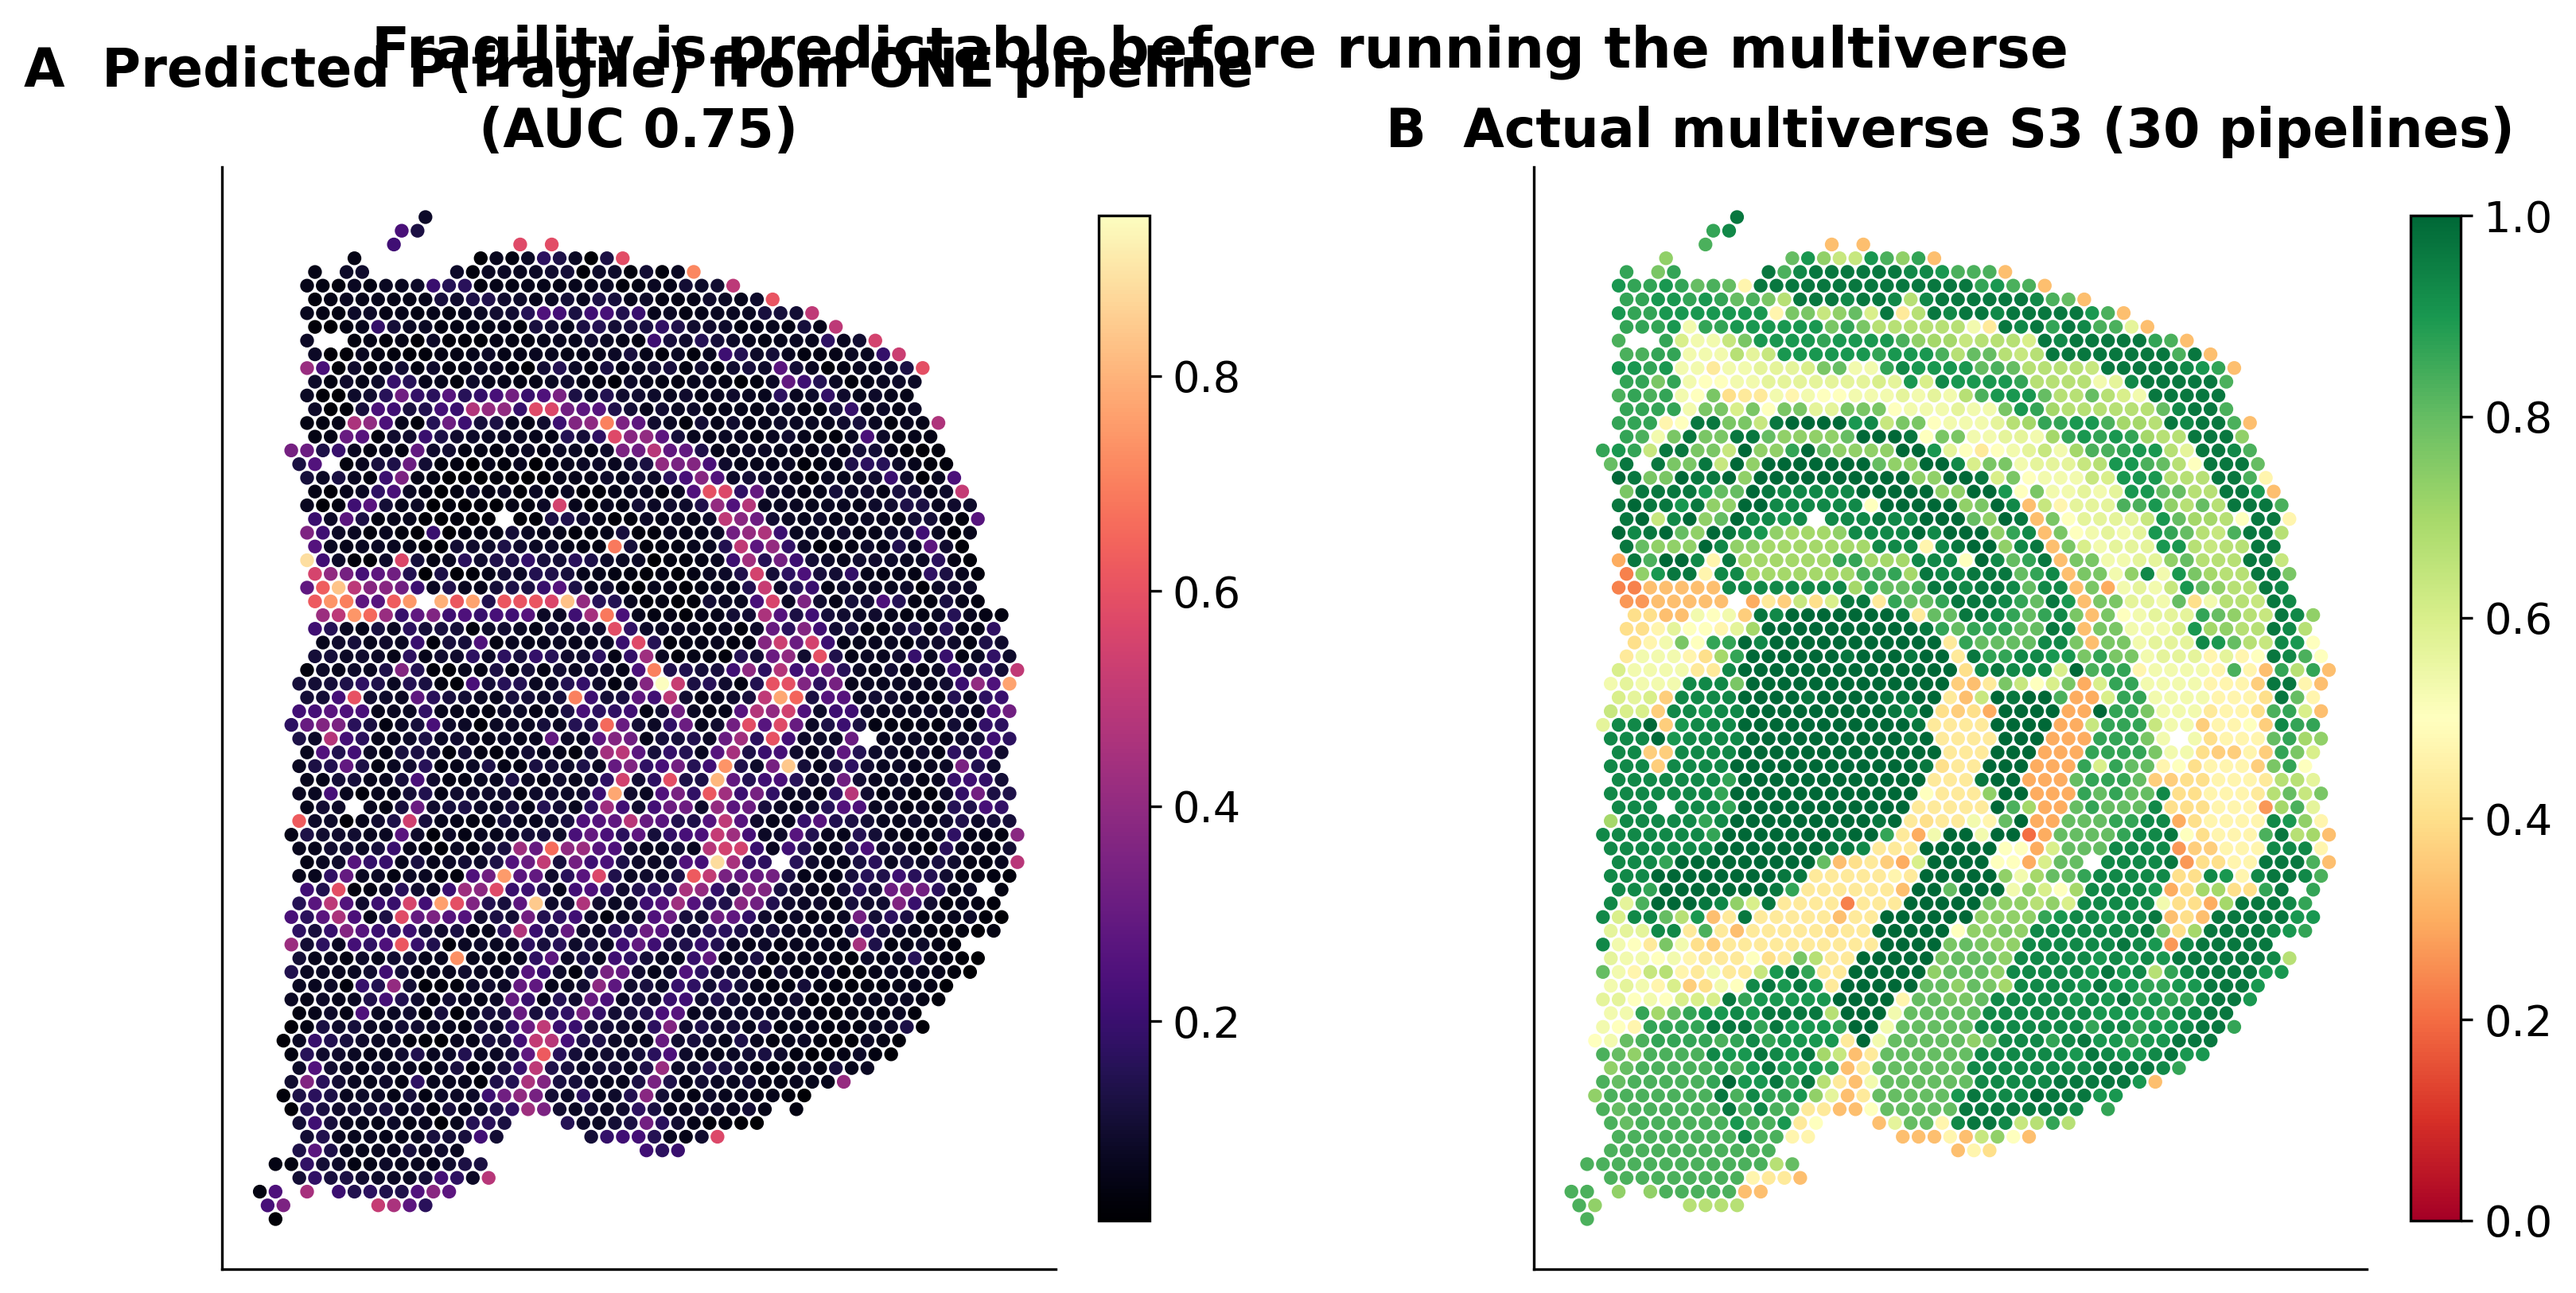
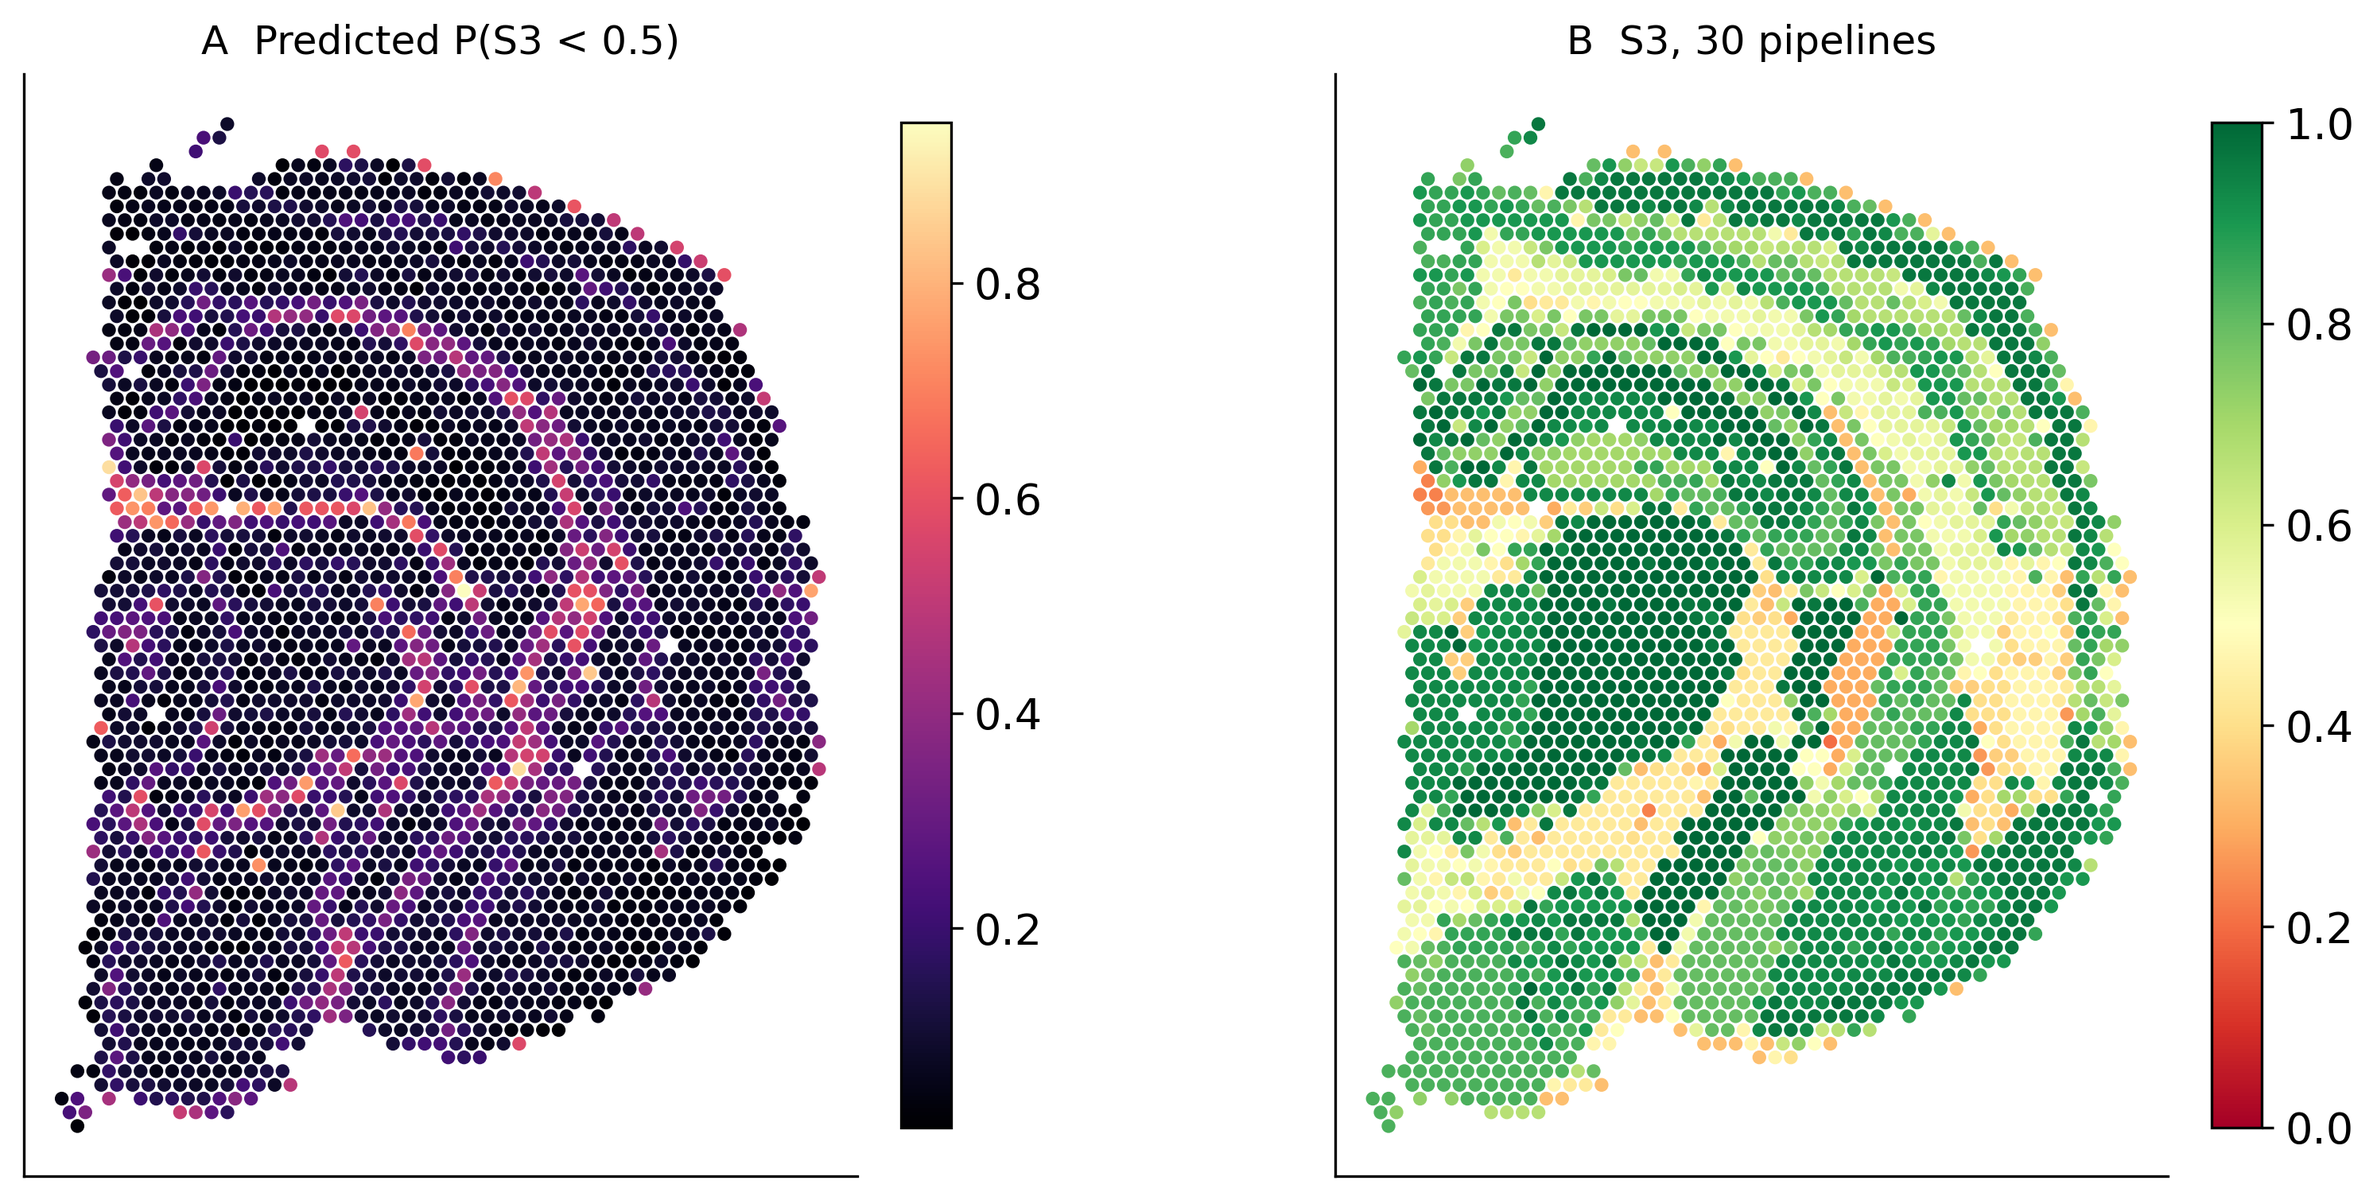
Redraw montage and fragility-map figures with short titles
Adds scripts/redraw_paper_maps.py (plots only; run on the cluster where
the curated runs live). Prediction AUC reproduced at 0.75.

diff --git a/scripts/redraw_paper_maps.py b/scripts/redraw_paper_maps.py
@@ -1,0 +1,22 @@
+"""Redraw the two spatial-map figures in the paper (Fig. 1 montage and the
+fragility-prediction map) from the curated runs, without recomputing stats.
+
+Run: PYTHONPATH=. python scripts/redraw_paper_maps.py
+"""
+from pathlib import Path
+
+import pandas as pd
+
+from mosaic.predict_fragility import plot_predicted_vs_actual, predict_fragility
+from mosaic.visualization import figure1_spec_montage, load_runs
+
+PROJECT = Path(__file__).resolve().parent.parent
+
+if __name__ == "__main__":
+    runs = load_runs(PROJECT / "results")
+    per_spot = pd.read_csv(PROJECT / "results" / "aggregate" / "per_spot_stability.csv")
+    figs = PROJECT / "results" / "figures"
+    figure1_spec_montage(runs, per_spot, figs / "fig1_spec_montage.png")
+    result = predict_fragility(runs, per_spot)
+    print("AUC", result.get("auc_combined"))
+    plot_predicted_vs_actual(result, figs / "17_fragility_prediction.png")
